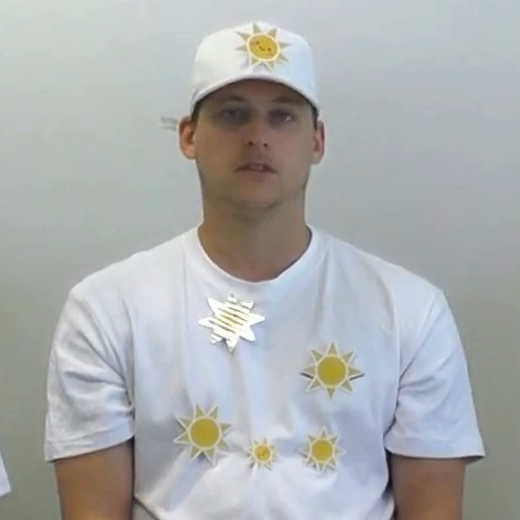
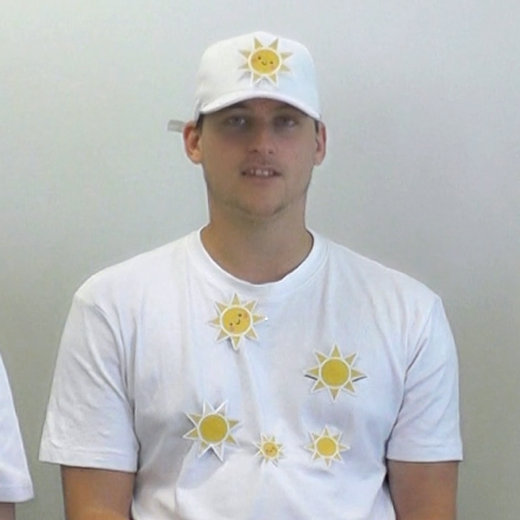
Sticker task before liking check; friendlier member pictures
- Sticker allocation now comes before the liking check (web and PsychoPy);
  the spoken texts moved with it. config.js regenerated from the PsychoPy
  script.
- New member pictures (web and PsychoPy) taken from the Study 1 videos at
  moments when each person smiles.
- Liking screen: help text no longer touches the Skip button.

diff --git a/Study1_Web/config.js b/Study1_Web/config.js
@@ -139,16 +139,16 @@ const CFG = {
    "tap_team_say": "\"Can you show me your team? Tap on your team!\"",
    "chosen_say": "\"Okay! So I have a couple of things for you. First, I have a special {team} team sticker for you.\" [give the sticker]\n\"I also have a special {team} team hat for you.\" [give the hat]\n\"Great, now you are part of the {team} team!\"",
    "show_teams_say": "[point to the {own} team] \"Here are some people who play on your team, the {own} team.\"\n[point to the {other} team] \"And here are some people who play on the other team, the {other} team.\"",
-   "liking": "Liking check: leave one person of each team on the table (same gender as the child: {pl}). Ask about each and tap the child's answer under the picture.",
-   "liking_say": "\"Now I will ask you some questions about the two teams. Let's move these people out of the way.\"\n[point to {this_sg} from your team] \"Do you see {this_sg} from your team? Do you like or not like {him}?\" \"Okay.\"\n\"And do you really like or kind of like {him}? / And do you really not like or kind of not like {him}?\" \"Okay.\"\n[the same for {this_sg} from the other team]",
+   "liking": "Liking check: ask about each person and tap the child's answer under the picture.",
+   "liking_say": "[point to {this_sg} from your team] \"Do you see {this_sg} from your team? Do you like or not like {him}?\" \"Okay.\"\n\"And do you really like or kind of like {him}? / And do you really not like or kind of not like {him}?\" \"Okay.\"\n[the same for {this_sg} from the other team]\n[move the photos out of sight] \"Later we'll hear from these two teams about the game we will play.\"",
    "liking_options": {
     "really_like": "really like",
     "kind_of_like": "kind of like",
     "kind_of_not_like": "kind of not like",
     "really_not_like": "really not like"
    },
-   "sticker_intro": "Sticker task\n\nPut {n} stickers on the table. On the next screen the child gives them to the two team members; tap the dots under each person to record how many each gets.",
-   "sticker_intro_say": "\"Now I have some stickers here, let's see how many I have. I have 1, 2, 3, 4, 5 stickers. And now you can tell me how many stickers to give each of these two {pl}.\"\n[next screen, point to each person]\n\"So out of these 5 stickers, how many stickers should I give to {this_sg} from your team?\"\n\"Okay, and how many stickers should I give to {this_sg} from the other team?\"",
+   "sticker_intro": "Sticker task\n\nLeave one person of each team on the table (same gender as the child: {pl}) and put {n} stickers on the table. On the next screen the child gives them to the two team members; tap the dots under each person to record how many each gets.",
+   "sticker_intro_say": "\"Now I will ask you some questions about the two teams. Let's move these people out of the way.\" [leave one person of each team]\n\"Now I have some stickers here, let's see how many I have. I have 1, 2, 3, 4, 5 stickers. And now you can tell me how many stickers to give each of these two {pl}.\"\n[next screen, point to each person]\n\"So out of these 5 stickers, how many stickers should I give to {this_sg} from your team?\"\n\"Okay, and how many stickers should I give to {this_sg} from the other team?\"\n[move the stickers out of sight]",
    "setup_first": "Round 1 of {n} - game introduction\n\nPut the {k} {color} boxes in front of the child and introduce the two animals ({pl_l} / {pl_r}).",
    "setup_first_say": "\"Now we can play the game! The game today involves a zoo. See, here is the zoo! Many animals are part of the zoo, including some {pl_l} [hold up the {l}] and {pl_r} [hold up the {r}].\" [let the child name both animals]\n\"Your job will be to figure out whether there are more {pl_l} or more {pl_r} in the boxes. Each one of these boxes has an animal in it, either {a_l} or {a_r}.\"",
    "setup": "Round {t} of {n}\n\nClear away the boxes, logo and toy animals of the last round. Put the {k} {color} boxes in front of the child and introduce the two animals ({pl_l} / {pl_r}).",
@@ -218,16 +218,16 @@ const CFG = {
    "tap_team_say": "\"Kun je mij jouw team laten zien? Tik op jouw team!\"",
    "chosen_say": "\"Oké! Ik heb een paar dingen voor jou. Eerst heb ik een speciale {team}-team sticker voor jou.\" [geef de sticker]\n\"Ik heb ook een speciale {team}-team pet voor jou.\" [geef de pet]\n\"Top, nu hoor jij bij het {team}-team!\"",
    "show_teams_say": "[wijs naar het {own}-team] \"Hier zijn een paar mensen die in jouw team spelen, het {own}-team.\"\n[wijs naar het {other}-team] \"En hier zijn een paar mensen die in het andere team spelen, het {other}-team.\"",
-   "liking": "Sympathie: laat van elk team één persoon van hetzelfde geslacht als het kind op tafel liggen ({pl}). Vraag naar ieder en tik het antwoord van het kind aan onder het plaatje.",
-   "liking_say": "\"Nu ga ik je een paar vragen stellen over de twee teams. Laten we deze mensen even aan de kant zetten.\"\n[wijs naar {this_sg} van jouw team] \"Zie je {this_sg} van jouw team? Vind je {him} aardig of niet aardig?\" \"Oké.\"\n\"En vind je {him} heel aardig of een beetje aardig? / En vind je {him} helemaal niet aardig of een beetje niet aardig?\" \"Oké.\"\n[hetzelfde voor {this_sg} van het andere team]",
+   "liking": "Sympathie: vraag naar ieder en tik het antwoord van het kind aan onder het plaatje.",
+   "liking_say": "[wijs naar {this_sg} van jouw team] \"Zie je {this_sg} van jouw team? Vind je {him} aardig of niet aardig?\" \"Oké.\"\n\"En vind je {him} heel aardig of een beetje aardig? / En vind je {him} helemaal niet aardig of een beetje niet aardig?\" \"Oké.\"\n[hetzelfde voor {this_sg} van het andere team]\n[haal de foto's uit het zicht] \"Straks horen we van deze twee teams over het spelletje dat we gaan spelen.\"",
    "liking_options": {
     "really_like": "heel aardig",
     "kind_of_like": "een beetje aardig",
     "kind_of_not_like": "een beetje niet aardig",
     "really_not_like": "helemaal niet aardig"
    },
-   "sticker_intro": "Stickertaak\n\nLeg {n} stickers op tafel. Op het volgende scherm verdeelt het kind ze over de twee teamleden; tik op de bolletjes onder elke persoon om te noteren hoeveel ieder krijgt.",
-   "sticker_intro_say": "\"Ik heb hier wat stickers, laten we eens kijken hoeveel ik er heb. Ik heb 1, 2, 3, 4, 5 stickers. Nu mag jij mij vertellen hoeveel stickers ik aan elk van deze twee {pl} moet geven.\"\n[volgend scherm, wijs naar elke persoon]\n\"Hoeveel van deze 5 stickers moet ik geven aan {this_sg} van jouw team?\"\n\"Oké, en hoeveel stickers moet ik geven aan {this_sg} van het andere team?\"",
+   "sticker_intro": "Stickertaak\n\nLaat van elk team één persoon van hetzelfde geslacht als het kind op tafel liggen ({pl}) en leg {n} stickers op tafel. Op het volgende scherm verdeelt het kind ze over de twee teamleden; tik op de bolletjes onder elke persoon om te noteren hoeveel ieder krijgt.",
+   "sticker_intro_say": "\"Nu ga ik je een paar vragen stellen over de twee teams. Laten we deze mensen even aan de kant zetten.\" [laat van elk team één persoon liggen]\n\"Ik heb hier wat stickers, laten we eens kijken hoeveel ik er heb. Ik heb 1, 2, 3, 4, 5 stickers. Nu mag jij mij vertellen hoeveel stickers ik aan elk van deze twee {pl} moet geven.\"\n[volgend scherm, wijs naar elke persoon]\n\"Hoeveel van deze 5 stickers moet ik geven aan {this_sg} van jouw team?\"\n\"Oké, en hoeveel stickers moet ik geven aan {this_sg} van het andere team?\"\n[haal de stickers uit het zicht]",
    "setup_first": "Ronde 1 van {n} - introductie van het spel\n\nZet de {k} {color} doosjes voor het kind neer en introduceer de twee dieren ({pl_l} / {pl_r}).",
    "setup_first_say": "\"Nu kunnen we het spelletje gaan spelen! Het spelletje van vandaag gaat over een dierentuin. Kijk, hier is de dierentuin! In de dierentuin wonen veel dieren, zoals {pl_l} [houd {the_l} omhoog] en {pl_r} [houd {the_r} omhoog].\" [laat het kind beide dieren benoemen]\n\"Jouw taak is om uit te zoeken of er meer {pl_l} of meer {pl_r} in de doosjes zitten. In elk van deze doosjes zit één dier, {a_l} of {a_r}.\"",
    "setup": "Ronde {t} van {n}\n\nRuim de doosjes, het logo en de speelgoeddieren van de vorige ronde op. Zet de {k} {color} doosjes voor het kind neer en introduceer de twee dieren ({pl_l} / {pl_r}).",

diff --git a/docs/config.js b/docs/config.js
@@ -139,16 +139,16 @@ const CFG = {
    "tap_team_say": "\"Can you show me your team? Tap on your team!\"",
    "chosen_say": "\"Okay! So I have a couple of things for you. First, I have a special {team} team sticker for you.\" [give the sticker]\n\"I also have a special {team} team hat for you.\" [give the hat]\n\"Great, now you are part of the {team} team!\"",
    "show_teams_say": "[point to the {own} team] \"Here are some people who play on your team, the {own} team.\"\n[point to the {other} team] \"And here are some people who play on the other team, the {other} team.\"",
-   "liking": "Liking check: leave one person of each team on the table (same gender as the child: {pl}). Ask about each and tap the child's answer under the picture.",
-   "liking_say": "\"Now I will ask you some questions about the two teams. Let's move these people out of the way.\"\n[point to {this_sg} from your team] \"Do you see {this_sg} from your team? Do you like or not like {him}?\" \"Okay.\"\n\"And do you really like or kind of like {him}? / And do you really not like or kind of not like {him}?\" \"Okay.\"\n[the same for {this_sg} from the other team]",
+   "liking": "Liking check: ask about each person and tap the child's answer under the picture.",
+   "liking_say": "[point to {this_sg} from your team] \"Do you see {this_sg} from your team? Do you like or not like {him}?\" \"Okay.\"\n\"And do you really like or kind of like {him}? / And do you really not like or kind of not like {him}?\" \"Okay.\"\n[the same for {this_sg} from the other team]\n[move the photos out of sight] \"Later we'll hear from these two teams about the game we will play.\"",
    "liking_options": {
     "really_like": "really like",
     "kind_of_like": "kind of like",
     "kind_of_not_like": "kind of not like",
     "really_not_like": "really not like"
    },
-   "sticker_intro": "Sticker task\n\nPut {n} stickers on the table. On the next screen the child gives them to the two team members; tap the dots under each person to record how many each gets.",
-   "sticker_intro_say": "\"Now I have some stickers here, let's see how many I have. I have 1, 2, 3, 4, 5 stickers. And now you can tell me how many stickers to give each of these two {pl}.\"\n[next screen, point to each person]\n\"So out of these 5 stickers, how many stickers should I give to {this_sg} from your team?\"\n\"Okay, and how many stickers should I give to {this_sg} from the other team?\"",
+   "sticker_intro": "Sticker task\n\nLeave one person of each team on the table (same gender as the child: {pl}) and put {n} stickers on the table. On the next screen the child gives them to the two team members; tap the dots under each person to record how many each gets.",
+   "sticker_intro_say": "\"Now I will ask you some questions about the two teams. Let's move these people out of the way.\" [leave one person of each team]\n\"Now I have some stickers here, let's see how many I have. I have 1, 2, 3, 4, 5 stickers. And now you can tell me how many stickers to give each of these two {pl}.\"\n[next screen, point to each person]\n\"So out of these 5 stickers, how many stickers should I give to {this_sg} from your team?\"\n\"Okay, and how many stickers should I give to {this_sg} from the other team?\"\n[move the stickers out of sight]",
    "setup_first": "Round 1 of {n} - game introduction\n\nPut the {k} {color} boxes in front of the child and introduce the two animals ({pl_l} / {pl_r}).",
    "setup_first_say": "\"Now we can play the game! The game today involves a zoo. See, here is the zoo! Many animals are part of the zoo, including some {pl_l} [hold up the {l}] and {pl_r} [hold up the {r}].\" [let the child name both animals]\n\"Your job will be to figure out whether there are more {pl_l} or more {pl_r} in the boxes. Each one of these boxes has an animal in it, either {a_l} or {a_r}.\"",
    "setup": "Round {t} of {n}\n\nClear away the boxes, logo and toy animals of the last round. Put the {k} {color} boxes in front of the child and introduce the two animals ({pl_l} / {pl_r}).",
@@ -218,16 +218,16 @@ const CFG = {
    "tap_team_say": "\"Kun je mij jouw team laten zien? Tik op jouw team!\"",
    "chosen_say": "\"Oké! Ik heb een paar dingen voor jou. Eerst heb ik een speciale {team}-team sticker voor jou.\" [geef de sticker]\n\"Ik heb ook een speciale {team}-team pet voor jou.\" [geef de pet]\n\"Top, nu hoor jij bij het {team}-team!\"",
    "show_teams_say": "[wijs naar het {own}-team] \"Hier zijn een paar mensen die in jouw team spelen, het {own}-team.\"\n[wijs naar het {other}-team] \"En hier zijn een paar mensen die in het andere team spelen, het {other}-team.\"",
-   "liking": "Sympathie: laat van elk team één persoon van hetzelfde geslacht als het kind op tafel liggen ({pl}). Vraag naar ieder en tik het antwoord van het kind aan onder het plaatje.",
-   "liking_say": "\"Nu ga ik je een paar vragen stellen over de twee teams. Laten we deze mensen even aan de kant zetten.\"\n[wijs naar {this_sg} van jouw team] \"Zie je {this_sg} van jouw team? Vind je {him} aardig of niet aardig?\" \"Oké.\"\n\"En vind je {him} heel aardig of een beetje aardig? / En vind je {him} helemaal niet aardig of een beetje niet aardig?\" \"Oké.\"\n[hetzelfde voor {this_sg} van het andere team]",
+   "liking": "Sympathie: vraag naar ieder en tik het antwoord van het kind aan onder het plaatje.",
+   "liking_say": "[wijs naar {this_sg} van jouw team] \"Zie je {this_sg} van jouw team? Vind je {him} aardig of niet aardig?\" \"Oké.\"\n\"En vind je {him} heel aardig of een beetje aardig? / En vind je {him} helemaal niet aardig of een beetje niet aardig?\" \"Oké.\"\n[hetzelfde voor {this_sg} van het andere team]\n[haal de foto's uit het zicht] \"Straks horen we van deze twee teams over het spelletje dat we gaan spelen.\"",
    "liking_options": {
     "really_like": "heel aardig",
     "kind_of_like": "een beetje aardig",
     "kind_of_not_like": "een beetje niet aardig",
     "really_not_like": "helemaal niet aardig"
    },
-   "sticker_intro": "Stickertaak\n\nLeg {n} stickers op tafel. Op het volgende scherm verdeelt het kind ze over de twee teamleden; tik op de bolletjes onder elke persoon om te noteren hoeveel ieder krijgt.",
-   "sticker_intro_say": "\"Ik heb hier wat stickers, laten we eens kijken hoeveel ik er heb. Ik heb 1, 2, 3, 4, 5 stickers. Nu mag jij mij vertellen hoeveel stickers ik aan elk van deze twee {pl} moet geven.\"\n[volgend scherm, wijs naar elke persoon]\n\"Hoeveel van deze 5 stickers moet ik geven aan {this_sg} van jouw team?\"\n\"Oké, en hoeveel stickers moet ik geven aan {this_sg} van het andere team?\"",
+   "sticker_intro": "Stickertaak\n\nLaat van elk team één persoon van hetzelfde geslacht als het kind op tafel liggen ({pl}) en leg {n} stickers op tafel. Op het volgende scherm verdeelt het kind ze over de twee teamleden; tik op de bolletjes onder elke persoon om te noteren hoeveel ieder krijgt.",
+   "sticker_intro_say": "\"Nu ga ik je een paar vragen stellen over de twee teams. Laten we deze mensen even aan de kant zetten.\" [laat van elk team één persoon liggen]\n\"Ik heb hier wat stickers, laten we eens kijken hoeveel ik er heb. Ik heb 1, 2, 3, 4, 5 stickers. Nu mag jij mij vertellen hoeveel stickers ik aan elk van deze twee {pl} moet geven.\"\n[volgend scherm, wijs naar elke persoon]\n\"Hoeveel van deze 5 stickers moet ik geven aan {this_sg} van jouw team?\"\n\"Oké, en hoeveel stickers moet ik geven aan {this_sg} van het andere team?\"\n[haal de stickers uit het zicht]",
    "setup_first": "Ronde 1 van {n} - introductie van het spel\n\nZet de {k} {color} doosjes voor het kind neer en introduceer de twee dieren ({pl_l} / {pl_r}).",
    "setup_first_say": "\"Nu kunnen we het spelletje gaan spelen! Het spelletje van vandaag gaat over een dierentuin. Kijk, hier is de dierentuin! In de dierentuin wonen veel dieren, zoals {pl_l} [houd {the_l} omhoog] en {pl_r} [houd {the_r} omhoog].\" [laat het kind beide dieren benoemen]\n\"Jouw taak is om uit te zoeken of er meer {pl_l} of meer {pl_r} in de doosjes zitten. In elk van deze doosjes zit één dier, {a_l} of {a_r}.\"",
    "setup": "Ronde {t} van {n}\n\nRuim de doosjes, het logo en de speelgoeddieren van de vorige ronde op. Zet de {k} {color} doosjes voor het kind neer en introduceer de twee dieren ({pl_l} / {pl_r}).",

diff --git a/Study1_Web/app.js b/Study1_Web/app.js
@@ -643,9 +643,9 @@ async function likingScreen(memberGender, sides, header, say) {
                                     {color: CFG.EXP_BUTTON_COLOR, width: 0.36});
     });
   });
-  const done = button(TXT.continue, 0, -0.3);
+  const done = button(TXT.continue, 0, -0.265);
   const skip = button(EXP.skip, HALF_W - 0.12, -0.45, {color: CFG.EXP_BUTTON_COLOR});
-  sayText(say, 0, -0.35, {size: 0.021});
+  sayText(say, 0, -0.325, {size: 0.019});
   const draw = () => {
     CFG.TEAMS.forEach(team => Object.entries(buttons[team]).forEach(([value, b]) =>
       setColor(b, answer[team] === value ? CFG.SELECTED_COLOR : CFG.EXP_BUTTON_COLOR)));
@@ -1219,13 +1219,13 @@ async function main() {
 
   const memberGender = ['female', 'male'].includes(info.gender) ? info.gender : pick(['female', 'male']);
   const [thisSg, pl, him] = CFG.MEMBER_WORDS[lang][memberGender];
-  // liking check and sticker task: the same two members on the same sides
+  // sticker task, then liking check: the same two members on the same sides
   const memberSides = Math.random() < 0.5 ? [...CFG.TEAMS] : [...CFG.TEAMS].reverse();
-  const liking = await likingScreen(memberGender, memberSides, fmt(EXP.liking, {pl}),
-                                    fmt(EXP.liking_say, {this_sg: thisSg, him}));
-  await experimenterScreen(fmt(EXP.sticker_intro, {n: CFG.N_STICKERS}), null,
+  await experimenterScreen(fmt(EXP.sticker_intro, {n: CFG.N_STICKERS, pl}), null,
                            fmt(EXP.sticker_intro_say, {pl, this_sg: thisSg}));
   const stickers = await stickerTask(memberGender, memberSides);
+  const liking = await likingScreen(memberGender, memberSides, EXP.liking,
+                                    fmt(EXP.liking_say, {this_sg: thisSg, him}));
   const score = v => (v ? CFG.LIKING_SCORE[v] : '');
   const session = {child_team: childTeam, team_pic_left: group.left,
                    team_choice_rt: round(group.rt, 3), teams_pic_top: teams.top, ...teams.tap,

diff --git a/docs/app.js b/docs/app.js
@@ -643,9 +643,9 @@ async function likingScreen(memberGender, sides, header, say) {
                                     {color: CFG.EXP_BUTTON_COLOR, width: 0.36});
     });
   });
-  const done = button(TXT.continue, 0, -0.3);
+  const done = button(TXT.continue, 0, -0.265);
   const skip = button(EXP.skip, HALF_W - 0.12, -0.45, {color: CFG.EXP_BUTTON_COLOR});
-  sayText(say, 0, -0.35, {size: 0.021});
+  sayText(say, 0, -0.325, {size: 0.019});
   const draw = () => {
     CFG.TEAMS.forEach(team => Object.entries(buttons[team]).forEach(([value, b]) =>
       setColor(b, answer[team] === value ? CFG.SELECTED_COLOR : CFG.EXP_BUTTON_COLOR)));
@@ -1219,13 +1219,13 @@ async function main() {
 
   const memberGender = ['female', 'male'].includes(info.gender) ? info.gender : pick(['female', 'male']);
   const [thisSg, pl, him] = CFG.MEMBER_WORDS[lang][memberGender];
-  // liking check and sticker task: the same two members on the same sides
+  // sticker task, then liking check: the same two members on the same sides
   const memberSides = Math.random() < 0.5 ? [...CFG.TEAMS] : [...CFG.TEAMS].reverse();
-  const liking = await likingScreen(memberGender, memberSides, fmt(EXP.liking, {pl}),
-                                    fmt(EXP.liking_say, {this_sg: thisSg, him}));
-  await experimenterScreen(fmt(EXP.sticker_intro, {n: CFG.N_STICKERS}), null,
+  await experimenterScreen(fmt(EXP.sticker_intro, {n: CFG.N_STICKERS, pl}), null,
                            fmt(EXP.sticker_intro_say, {pl, this_sg: thisSg}));
   const stickers = await stickerTask(memberGender, memberSides);
+  const liking = await likingScreen(memberGender, memberSides, EXP.liking,
+                                    fmt(EXP.liking_say, {this_sg: thisSg, him}));
   const score = v => (v ? CFG.LIKING_SCORE[v] : '');
   const session = {child_team: childTeam, team_pic_left: group.left,
                    team_choice_rt: round(group.rt, 3), teams_pic_top: teams.top, ...teams.tap,

diff --git a/Study1_PsychoPy/study1_task.py b/Study1_PsychoPy/study1_task.py
@@ -17,17 +17,16 @@ Procedure per session
      with the happy sound; a tap on the other team plays a 'wrong' sound and
      the child can try again (team_tap_first own/other, team_tap_n_wrong,
      team_tap_rt).
-  1b. Liking check: one member of each team (same gender as the child;
-     random if gender is not female/male) is shown; the experimenter asks
-     whether the child likes each of them and taps the answer under the
+  1b. Sticker distribution: one member of each team (same gender as the
+     child; random if gender is not female/male; team on the left:
+     sticker_pic_left) is shown; the child gives 5 stickers to them and the
+     experimenter records the numbers by tapping the 5 dots under each photo
+     (stickers_to_sun_member, stickers_to_moon_member, 0-5 each).
+  1c. Liking check: the same two members (same sides); the experimenter
+     asks whether the child likes each of them and taps the answer under the
      photo (liking_moon_member, liking_sun_member: really_like /
      kind_of_like / kind_of_not_like / really_not_like; liking_own,
      liking_other: 4 = really like ... 1 = really not like).
-  1c. Sticker distribution: the same two members (same sides,
-     sticker_pic_left) are shown; the child gives
-     5 stickers to them and the experimenter records the numbers by tapping
-     the 5 dots under each photo (stickers_to_sun_member,
-     stickers_to_moon_member, 0-5 each).
   2. Four trials. Each trial:
        a. Experimenter set-up screens (box colour + animal pair; open the
           first box). In round 1 only, the child first practises the scale:
@@ -273,30 +272,34 @@ EXP_TEXT = {
                           'on your team, the {own} team."\n[point to the {other} '
                           'team] "And here are some people who play on the other '
                           'team, the {other} team."',
-        'liking': 'Liking check: leave one person of each team on the table (same '
-                  'gender as the child: {pl}). Ask about each and tap the child\'s '
+        'liking': 'Liking check: ask about each person and tap the child\'s '
                   'answer under the picture.',
-        'liking_say': '"Now I will ask you some questions about the two teams. '
-                      'Let\'s move these people out of the way."\n[point to {this_sg} '
+        'liking_say': '[point to {this_sg} '
                       'from your team] "Do you see {this_sg} from your team? Do you '
                       'like or not like {him}?" "Okay."\n"And do you really like or '
                       'kind of like {him}? / And do you really not like or kind of '
                       'not like {him}?" "Okay."\n[the same for {this_sg} from the '
-                      'other team]',
+                      'other team]\n[move the photos out of sight] "Later we\'ll hear '
+                      'from these two teams about the game we will play."',
         'liking_options': {'really_like': 'really like', 'kind_of_like': 'kind of like',
                            'kind_of_not_like': 'kind of not like',
                            'really_not_like': 'really not like'},
-        'sticker_intro': 'Sticker task\n\nPut {n} stickers on the table. On the next '
+        'sticker_intro': 'Sticker task\n\nLeave one person of each team on the table '
+                         '(same gender as the child: {pl}) and put {n} stickers on '
+                         'the table. On the next '
                          'screen the child gives them to the two team members; tap '
                          'the dots under each person to record how many each gets.',
-        'sticker_intro_say': '"Now I have some stickers here, let\'s see how many I '
+        'sticker_intro_say': '"Now I will ask you some questions about the two '
+                             'teams. Let\'s move these people out of the way." [leave '
+                             'one person of each team]\n'
+                             '"Now I have some stickers here, let\'s see how many I '
                              'have. I have 1, 2, 3, 4, 5 stickers. And now you can '
                              'tell me how many stickers to give each of these two '
                              '{pl}."\n[next screen, point to each person]\n'
                              '"So out of these 5 stickers, how many stickers should I '
                              'give to {this_sg} from your team?"\n'
                              '"Okay, and how many stickers should I give to {this_sg} '
-                             'from the other team?"',
+                             'from the other team?"\n[move the stickers out of sight]',
         'setup_first': 'Round 1 of {n} - game introduction\n\nPut the {k} {color} '
                        'boxes in front of the child and introduce the two animals '
                        '({pl_l} / {pl_r}).',
@@ -430,30 +433,36 @@ EXP_TEXT = {
                           'in jouw team spelen, het {own}-team."\n[wijs naar het '
                           '{other}-team] "En hier zijn een paar mensen die in het '
                           'andere team spelen, het {other}-team."',
-        'liking': 'Sympathie: laat van elk team één persoon van hetzelfde geslacht '
-                  'als het kind op tafel liggen ({pl}). Vraag naar ieder en tik het '
-                  'antwoord van het kind aan onder het plaatje.',
-        'liking_say': '"Nu ga ik je een paar vragen stellen over de twee teams. '
-                      'Laten we deze mensen even aan de kant zetten."\n[wijs naar '
+        'liking': 'Sympathie: vraag naar ieder en tik het antwoord van het kind '
+                  'aan onder het plaatje.',
+        'liking_say': '[wijs naar '
                       '{this_sg} van jouw team] "Zie je {this_sg} van jouw team? Vind '
                       'je {him} aardig of niet aardig?" "Oké."\n"En vind je {him} '
                       'heel aardig of een beetje aardig? / En vind je {him} helemaal '
                       'niet aardig of een beetje niet aardig?" "Oké."\n[hetzelfde '
-                      'voor {this_sg} van het andere team]',
+                      'voor {this_sg} van het andere team]\n[haal de foto\'s uit '
+                      'het zicht] "Straks horen we van deze twee teams over het '
+                      'spelletje dat we gaan spelen."',
         'liking_options': {'really_like': 'heel aardig', 'kind_of_like': 'een beetje aardig',
                            'kind_of_not_like': 'een beetje niet aardig',
                            'really_not_like': 'helemaal niet aardig'},
-        'sticker_intro': 'Stickertaak\n\nLeg {n} stickers op tafel. Op het volgende '
+        'sticker_intro': 'Stickertaak\n\nLaat van elk team één persoon van hetzelfde '
+                         'geslacht als het kind op tafel liggen ({pl}) en leg {n} '
+                         'stickers op tafel. Op het volgende '
                          'scherm verdeelt het kind ze over de twee teamleden; tik op '
                          'de bolletjes onder elke persoon om te noteren hoeveel '
                          'ieder krijgt.',
-        'sticker_intro_say': '"Ik heb hier wat stickers, laten we eens kijken '
+        'sticker_intro_say': '"Nu ga ik je een paar vragen stellen over de twee '
+                             'teams. Laten we deze mensen even aan de kant zetten." '
+                             '[laat van elk team één persoon liggen]\n'
+                             '"Ik heb hier wat stickers, laten we eens kijken '
                              'hoeveel ik er heb. Ik heb 1, 2, 3, 4, 5 stickers. Nu mag '
                              'jij mij vertellen hoeveel stickers ik aan elk van deze '
                              'twee {pl} moet geven."\n[volgend scherm, wijs naar elke '
                              'persoon]\n"Hoeveel van deze 5 stickers moet ik geven aan '
                              '{this_sg} van jouw team?"\n"Oké, en hoeveel stickers moet '
-                             'ik geven aan {this_sg} van het andere team?"',
+                             'ik geven aan {this_sg} van het andere team?"\n[haal de '
+                             'stickers uit het zicht]',
         'setup_first': 'Ronde 1 van {n} - introductie van het spel\n\nZet de {k} '
                        '{color} doosjes voor het kind neer en introduceer de twee '
                        'dieren ({pl_l} / {pl_r}).',
@@ -1193,7 +1202,7 @@ def liking_screen(member_gender, sides, header, say):
     title = visual.TextStim(win, text=header, pos=(0, 0.455), height=0.024,
                             color=EXP_COLOR, italic=True, font=FONT,
                             wrapWidth=2 * HALF_W * 0.85)
-    script = say_text(say, (0, -0.35), height=0.021)
+    script = say_text(say, (0, -0.325), height=0.019)
     stims, buttons = [], {}
     for team, xpos in zip(sides, (-x, x)):
         stims.append(load_image(STIM / 'members' / f'{team}_{member_gender}.png',
@@ -1205,7 +1214,7 @@ def liking_screen(member_gender, sides, header, say):
                                        (xpos, 0.045 - k * 0.068),
                                        color=EXP_BUTTON_COLOR, width=0.36)
                          for k, value in enumerate(LIKING)}
-    done = Button(TXT['continue'], (0, -0.3))
+    done = Button(TXT['continue'], (0, -0.265))
     skip = Button(EXP['skip'], (HALF_W - 0.12, -0.45), color=EXP_BUTTON_COLOR)
     answer = {team: '' for team in TEAMS}
 
@@ -2066,7 +2075,7 @@ own_name = TEAM_NAMES[lang][child_team]
 # the child taps their own team
 teams_top, team_tap = show_teams(child_team)
 
-# Liking check and sticker distribution: one member of each team, same
+# Sticker distribution, then liking check: one member of each team, same
 # gender as the child, on the same sides on both screens
 if info['gender'] in ('female', 'male'):
     member_gender = info['gender']
@@ -2074,12 +2083,11 @@ else:
     member_gender = random.choice(['female', 'male'])
 this_sg, pl, him = MEMBER_WORDS[lang][member_gender]
 member_sides = TEAMS[:] if random.random() < 0.5 else TEAMS[::-1]
-liking, liking_rt = liking_screen(member_gender, member_sides,
-                                  EXP['liking'].format(pl=pl),
-                                  EXP['liking_say'].format(this_sg=this_sg, him=him))
-experimenter_screen(EXP['sticker_intro'].format(n=N_STICKERS),
+experimenter_screen(EXP['sticker_intro'].format(n=N_STICKERS, pl=pl),
                     say=EXP['sticker_intro_say'].format(pl=pl, this_sg=this_sg))
 stickers, sticker_left, sticker_rt = sticker_task(member_gender, member_sides)
+liking, liking_rt = liking_screen(member_gender, member_sides, EXP['liking'],
+                                  EXP['liking_say'].format(this_sg=this_sg, him=him))
 session = {'child_team': child_team, 'team_pic_left': team_left,
            'team_choice_rt': round(team_rt, 3), 'teams_pic_top': teams_top,
            **team_tap,

diff --git a/README.md b/README.md
@@ -26,8 +26,8 @@ All commands below are run from the `Study1_Web` folder.
    *quality*: looked vs someone told them), participant number (counted up
    automatically), age and gender.
 2. **Introduction**: the child picks a team and taps their own team.
-3. **Liking check** with one gender-matched member of each team (really like …
-   really not like), then the **sticker task** (5 stickers) with the same two
+3. **Sticker task** (5 stickers) with one gender-matched member of each team,
+   then the **liking check** (really like … really not like) with the same two
    members.
 4. **4 trials**, one animal pair each:
    - setup; in the first trial, the game introduction and scale practice;
